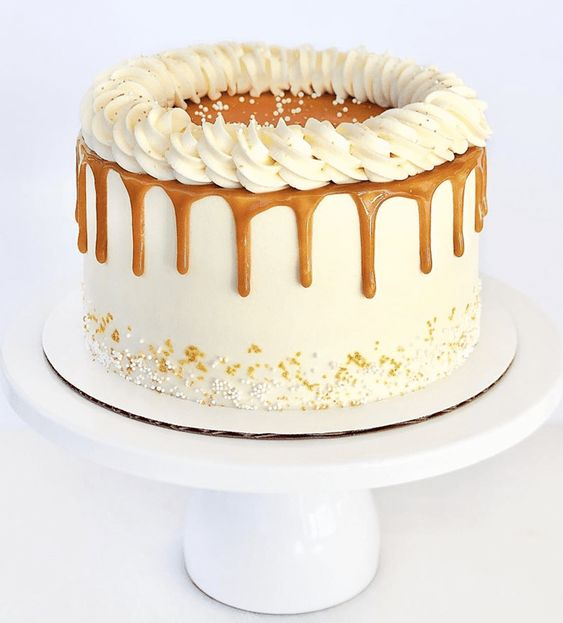
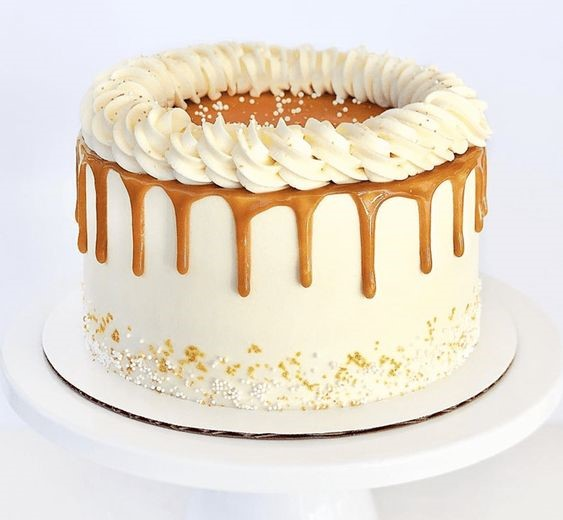
agregye seccion de tortas en home

diff --git a/pages/principal.html b/pages/principal.html
@@ -97,12 +97,14 @@
           <span class="visually-hidden">Next</span>
         </button>
       </div>
+      <section class=" colorSection mt-5 py-3">
       <h1 class="text-center pt-5">Dulce tentación</h1>
-      <h3 class="text-center pt-3 mb-5">
+      <h4 class="text-center pt-3 mb-5">
         Nuestra pasión es endulzar tus momentos especiales con la más deliciosa
         repostería artesanal. Desde tartas personalizadas y pasteles hasta una
         amplia variedad de postres, galletas y cupcakes.
-      </h3>
+      </h4>
+    </section>
       <section class="container pt-5">
         <h3 class="text-center mb-5">Cupcakes</h3>
         <article class="row">
@@ -115,7 +117,7 @@
               />
               <div class="card-body">
                 <h5 class="card-title text-center">Cupcake de vainilla</h5>
-                <p class="card-text text-center">$26.490,00</p>
+                <p class="card-text text-center">$10.490,00</p>
                 <a href=""
                   ><button
                     type="button"
@@ -135,8 +137,8 @@
                 alt="..."
               />
               <div class="card-body">
-                <h5 class="card-title text-center">Cupcake de vainilla</h5>
-                <p class="card-text text-center">$26.490,00</p>
+                <h5 class="card-title text-center">Cupcake de chocolate</h5>
+                <p class="card-text text-center">$10.490,00</p>
                 <a href=""
                   ><button
                     type="button"
@@ -149,15 +151,15 @@
             </div>
           </div>
           <div class="col-sm-12 col-md-6 col-lg-3">
-            <div class="card border-0" >
+            <div class="card border-0">
               <img
                 src="/img/categorias/cupcakes/cupcakes-frutilla.jpg"
                 class="card-img-top imgSize"
                 alt="..."
               />
               <div class="card-body">
-                <h5 class="card-title text-center">Cupcake de vainilla</h5>
-                <p class="card-text text-center">$26.490,00</p>
+                <h5 class="card-title text-center">Cupcake de frutilla</h5>
+                <p class="card-text text-center">$10.490,00</p>
                 <a href=""
                   ><button
                     type="button"
@@ -177,8 +179,97 @@
                 alt="..."
               />
               <div class="card-body">
-                <h5 class="card-title text-center">Cupcake de vainilla</h5>
-                <p class="card-text text-center">$26.490,00</p>
+                <h5 class="card-title text-center">Cupcake de manzana</h5>
+                <p class="card-text text-center">$10.490,00</p>
+                <a href=""
+                  ><button
+                    type="button"
+                    class="w-100 rounded-1 colorButtom border-0 py-2"
+                  >
+                    Ver más..
+                  </button></a
+                >
+              </div>
+            </div>
+          </div>
+        </article>
+      </section>
+      <section class="container pt-5">
+        <h3 class="text-center mb-5">Tortas</h3>
+        <article class="row">
+          <div class="col-sm-12 col-md-6 col-lg-3">
+            <div class="card border-0">
+              <img
+                src="/img/categorias/tortas/Caramel-Birthday Cake-.jpg"
+                class="card-img-top imgSize"
+                alt="..."
+              />
+              <div class="card-body">
+                <h5 class="card-title text-center">Torta de caramelo</h5>
+                <p class="card-text text-center">$10.490,00</p>
+                <a href=""
+                  ><button
+                    type="button"
+                    class="w-100 rounded-1 colorButtom border-0 py-2"
+                  >
+                    Ver más..
+                  </button></a
+                >
+              </div>
+            </div>
+          </div>
+          <div class="col-sm-12 col-md-6 col-lg-3">
+            <div class="card border-0">
+              <img
+                src="/img/categorias/tortas/chocolate-berry cake.jpg"
+                class="card-img-top imgSize"
+                alt="..."
+              />
+              <div class="card-body">
+                <h5 class="card-title text-center">Torta de chocolate</h5>
+                <p class="card-text text-center">$10.490,00</p>
+                <a href=""
+                  ><button
+                    type="button"
+                    class="w-100 rounded-1 colorButtom border-0 py-2"
+                  >
+                    Ver más..
+                  </button></a
+                >
+              </div>
+            </div>
+          </div>
+          <div class="col-sm-12 col-md-6 col-lg-3">
+            <div class="card border-0">
+              <img
+                src="/img/categorias/tortas/Vegan-dark chocolate-cherry layer-cake.jpg"
+                class="card-img-top imgSize"
+                alt="..."
+              />
+              <div class="card-body">
+                <h5 class="card-title text-center">Torta de chocolate amargo</h5>
+                <p class="card-text text-center">$10.490,00</p>
+                <a href=""
+                  ><button
+                    type="button"
+                    class="w-100 rounded-1 colorButtom border-0 py-2"
+                  >
+                    Ver más..
+                  </button></a
+                >
+              </div>
+            </div>
+          </div>
+          <div class="col-sm-12 col-md-6 col-lg-3">
+            <div class="card border-0">
+              <img
+                src="/img/categorias/tortas/torta-cerezas.webp"
+                class="card-img-top imgSize"
+                alt="..."
+              />
+              <div class="card-body">
+                <h5 class="card-title text-center">Torta de cerezas</h5>
+                <p class="card-text text-center">$10.490,00</p>
                 <a href=""
                   ><button
                     type="button"

diff --git a/css/principal.css b/css/principal.css
@@ -8,6 +8,10 @@
   border-radius: 5px;
   background: rgba(206, 167, 202, 0.162);
 }
+
+.colorSection{
+  background-color: rgb(248, 235, 233);
+}
 .colorButtom {
   background-color: rgb(248, 235, 233);
 }
@@ -18,7 +22,7 @@
 
 .imgSize{
 width: 100%;
-min-height: 230px;
+height: 230px;
 object-fit: cover;
 object-position: center;
 }
